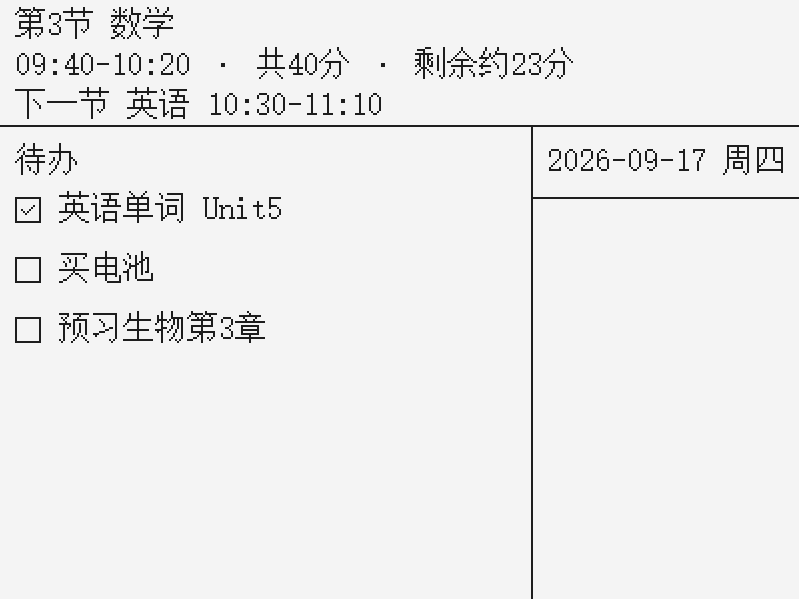
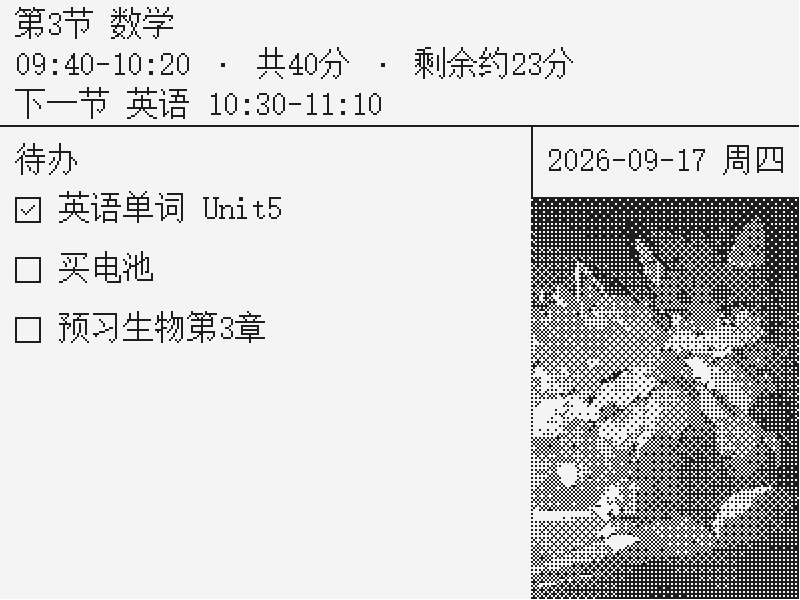
fix(fw): 巡视小窗改指 img_2；重出该帧（小窗墨点 1%→55%）

Changed region(s): [[0.6562, 0.33, 1.0, 1.0]]

diff --git a/software/components/app/qemu_tour.c b/software/components/app/qemu_tour.c
@@ -220,14 +220,15 @@ void qemu_tour_run(void)
     ui_render_idle();
     step("IDLE-news");
 
-    /* 3. IDLE 插画进小窗 */
+    /* 3. IDLE 插画进小窗（池里 2=全屏图 img_1，3=小窗图 img_2） */
     ui_set_art_mode(1);
-    ui_pool_set_current(2);
+    ui_pool_set_current(3);
     ui_render_idle();
     step("IDLE-art-panel");
 
-    /* 4-6. 全屏插画 + 信息条三模式 */
+    /* 4-6. 全屏插画 + 信息条三模式（切回全屏图 img_1） */
     ui_set_art_mode(0);
+    ui_pool_set_current(2);
     ui_set_bar_mode(UI_BAR_SOLID);
     ui_render_idle();
     step("FULL-bar-solid");
